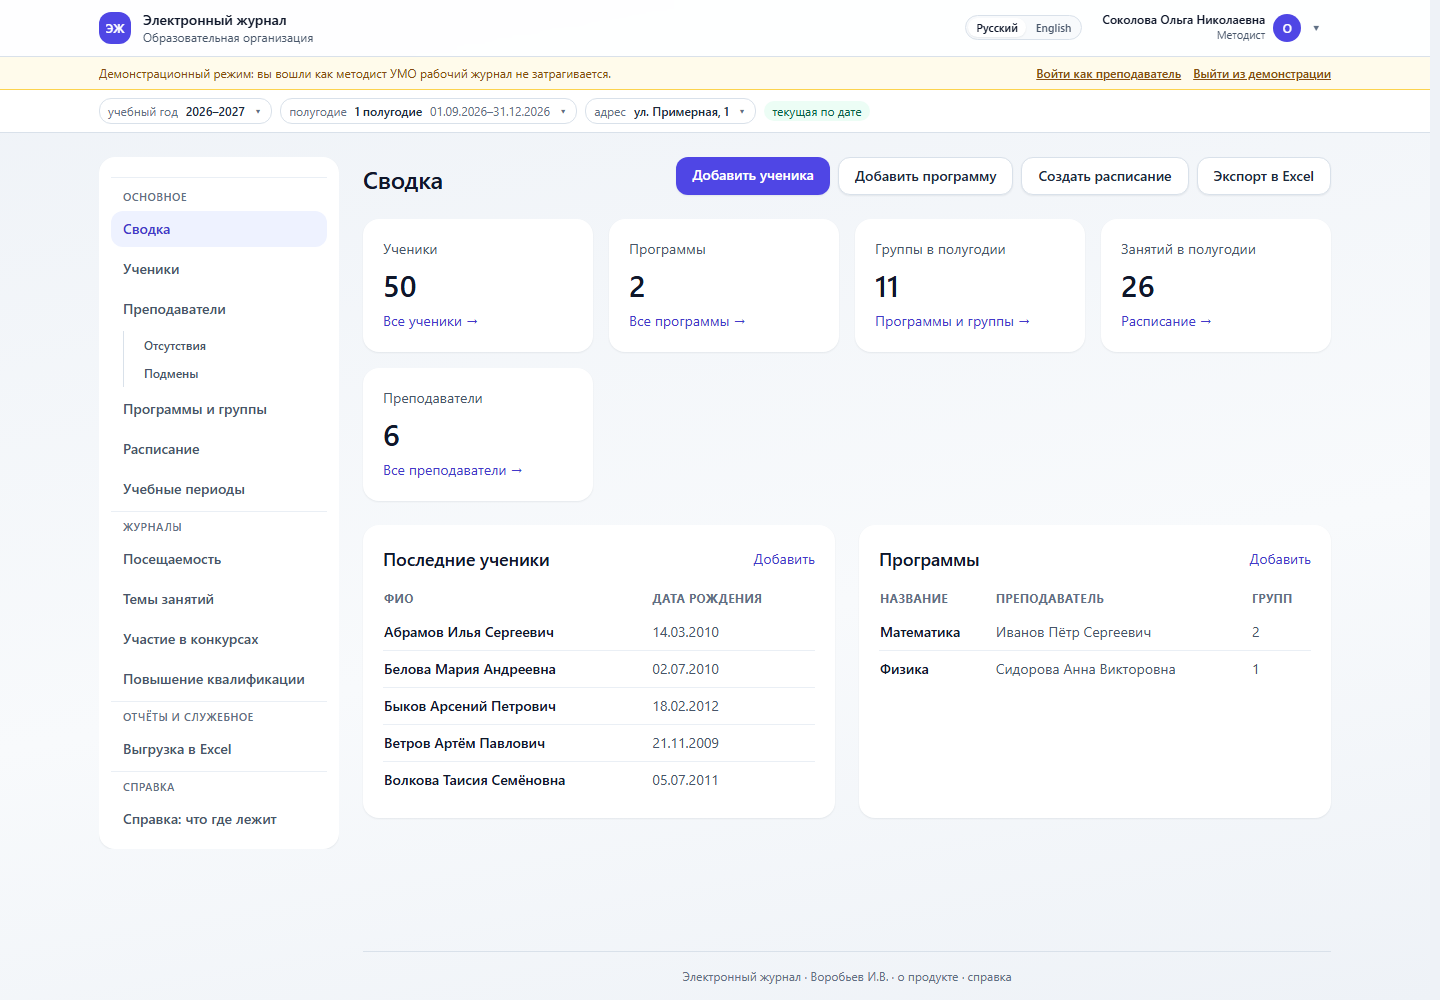
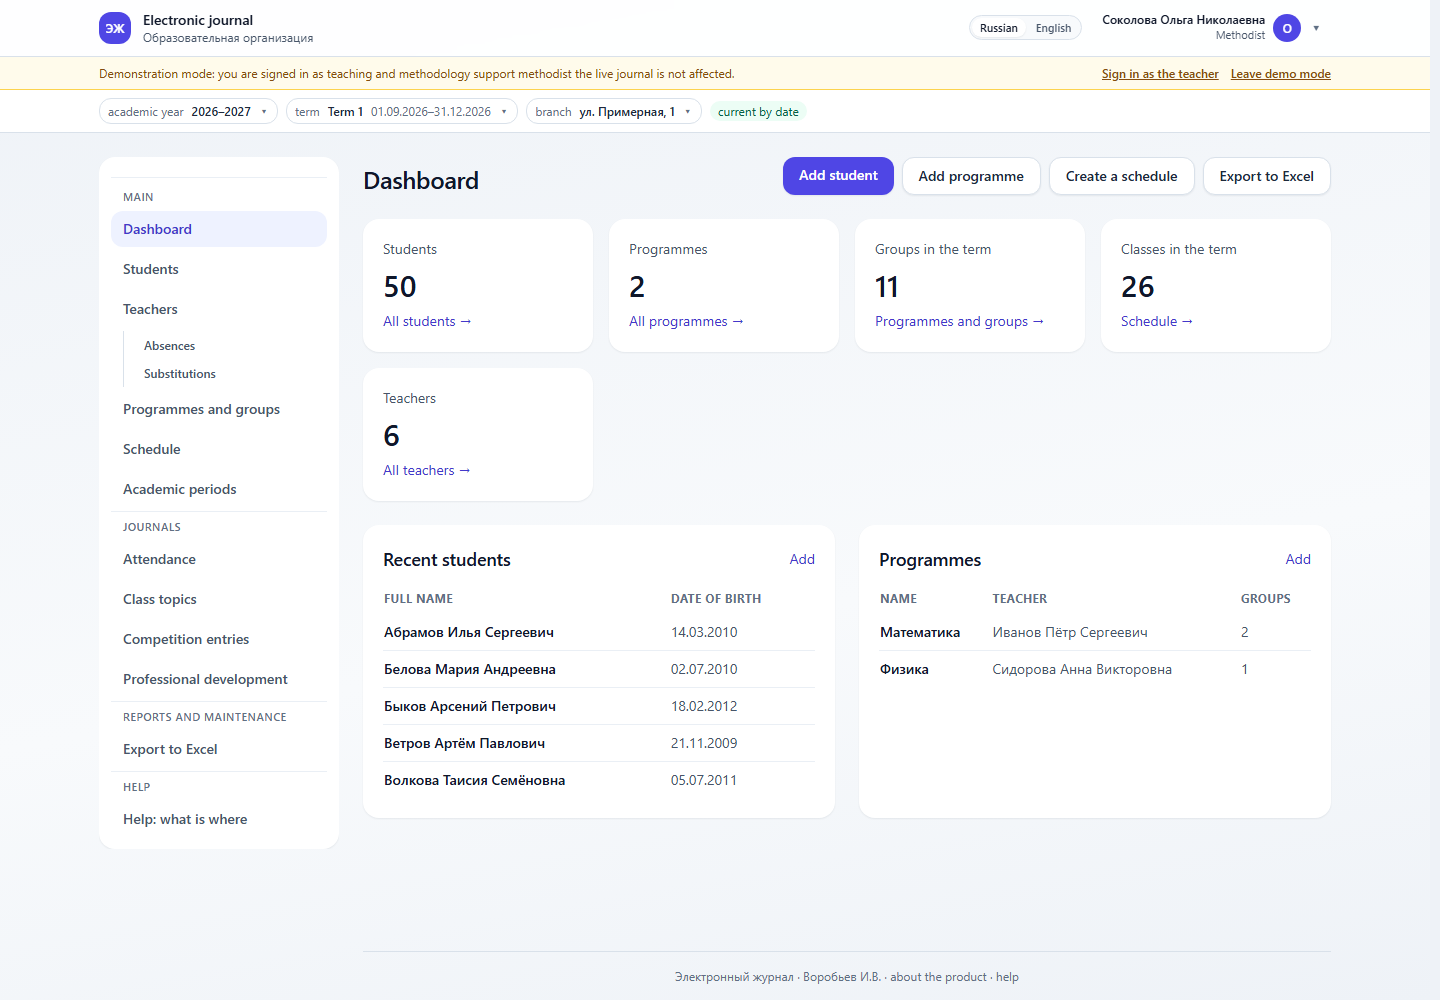
README: английский снимок сводки с меткой версии
- возвращён английский снимок сводки, перезаписанный поздними съёмками;
- у снимка метка версии, чтобы GitHub не отдавал старый из кэша.

diff --git a/README.md b/README.md
@@ -18,7 +18,7 @@ Tailwind CSS (the styles are part of the project, no Node.js build needed). Ther
 grades — attendance only: `P` — present, `A` — absent, `L` — late.
 
 <p align="center">
-  <img src="docs/screenshots/dashboard-en.png" width="600" alt="Dashboard">
+  <img src="docs/screenshots/dashboard-en.png?v=2" width="600" alt="Dashboard">
   <br>
   <sub><b>Dashboard</b> · summary for the term</sub>
 </p>
